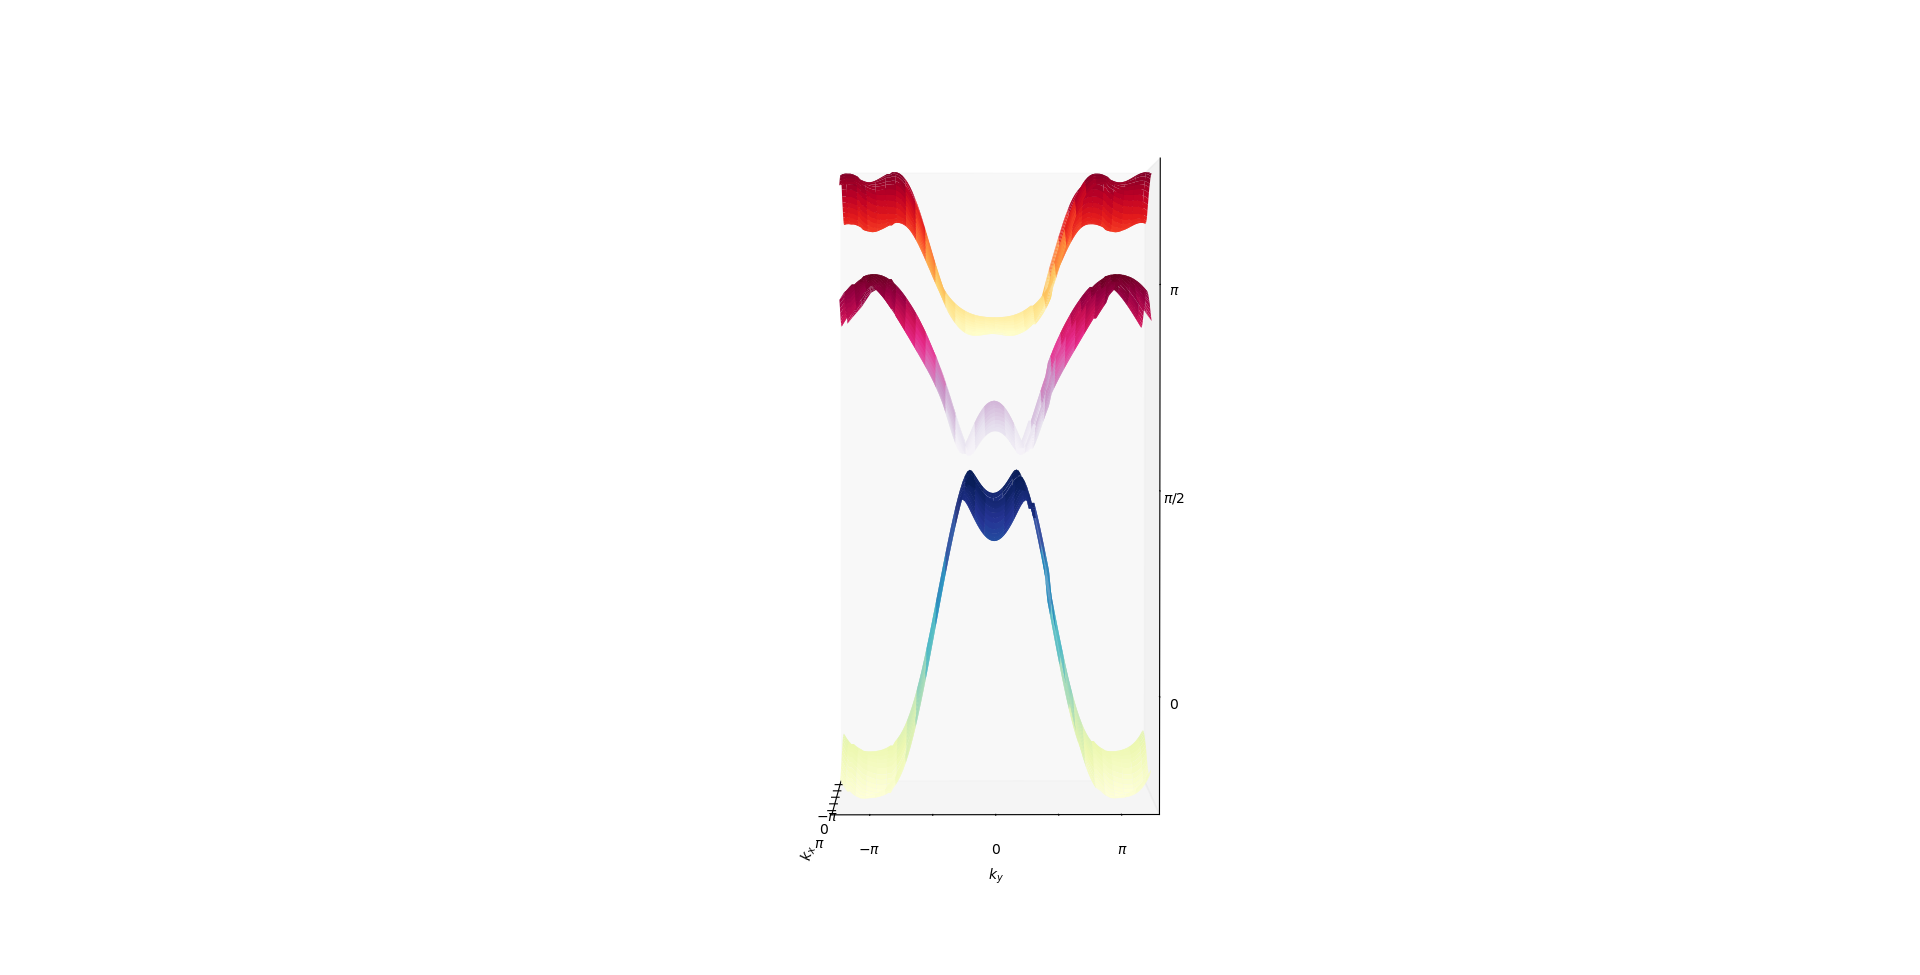
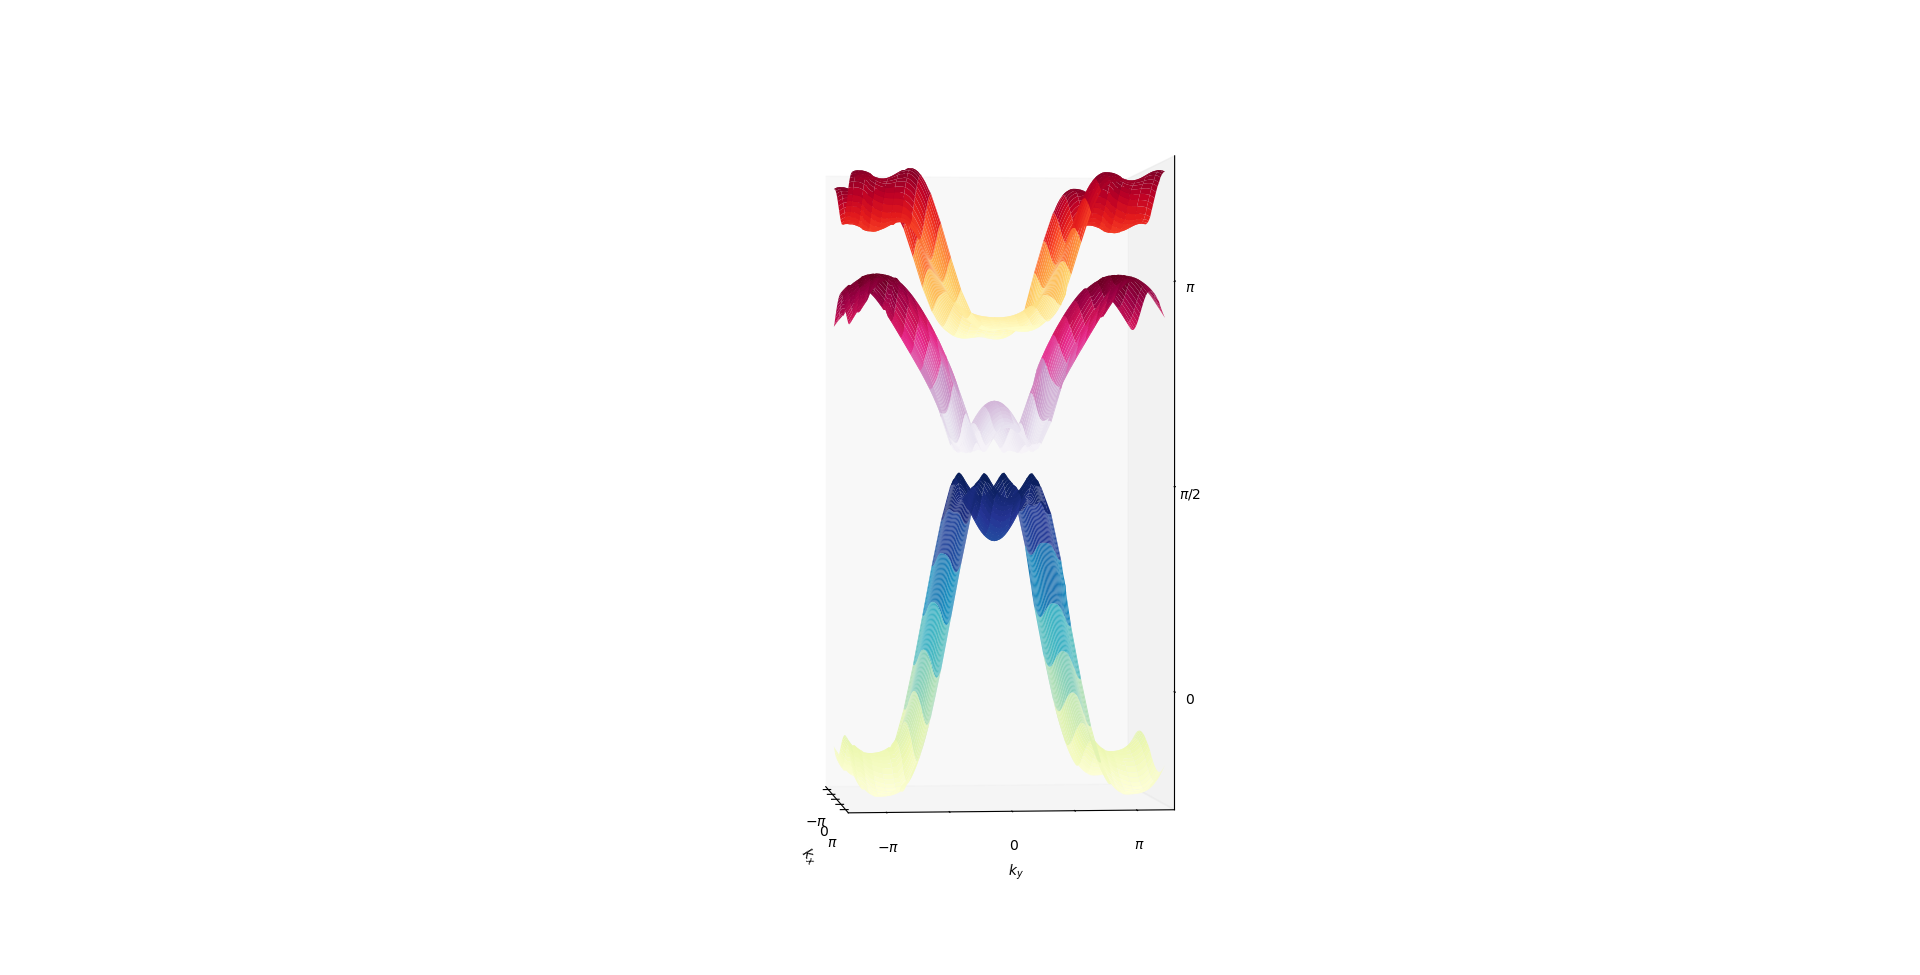
Braiding

diff --git a/square_complete.py b/square_complete.py
@@ -16,7 +16,7 @@ plot_from_save = True
 
 
 # PARAMETERS
-delta_A = 2.5
+delta_A = 3
 delta_C = -3
 omega = 9
 A_x = 1
